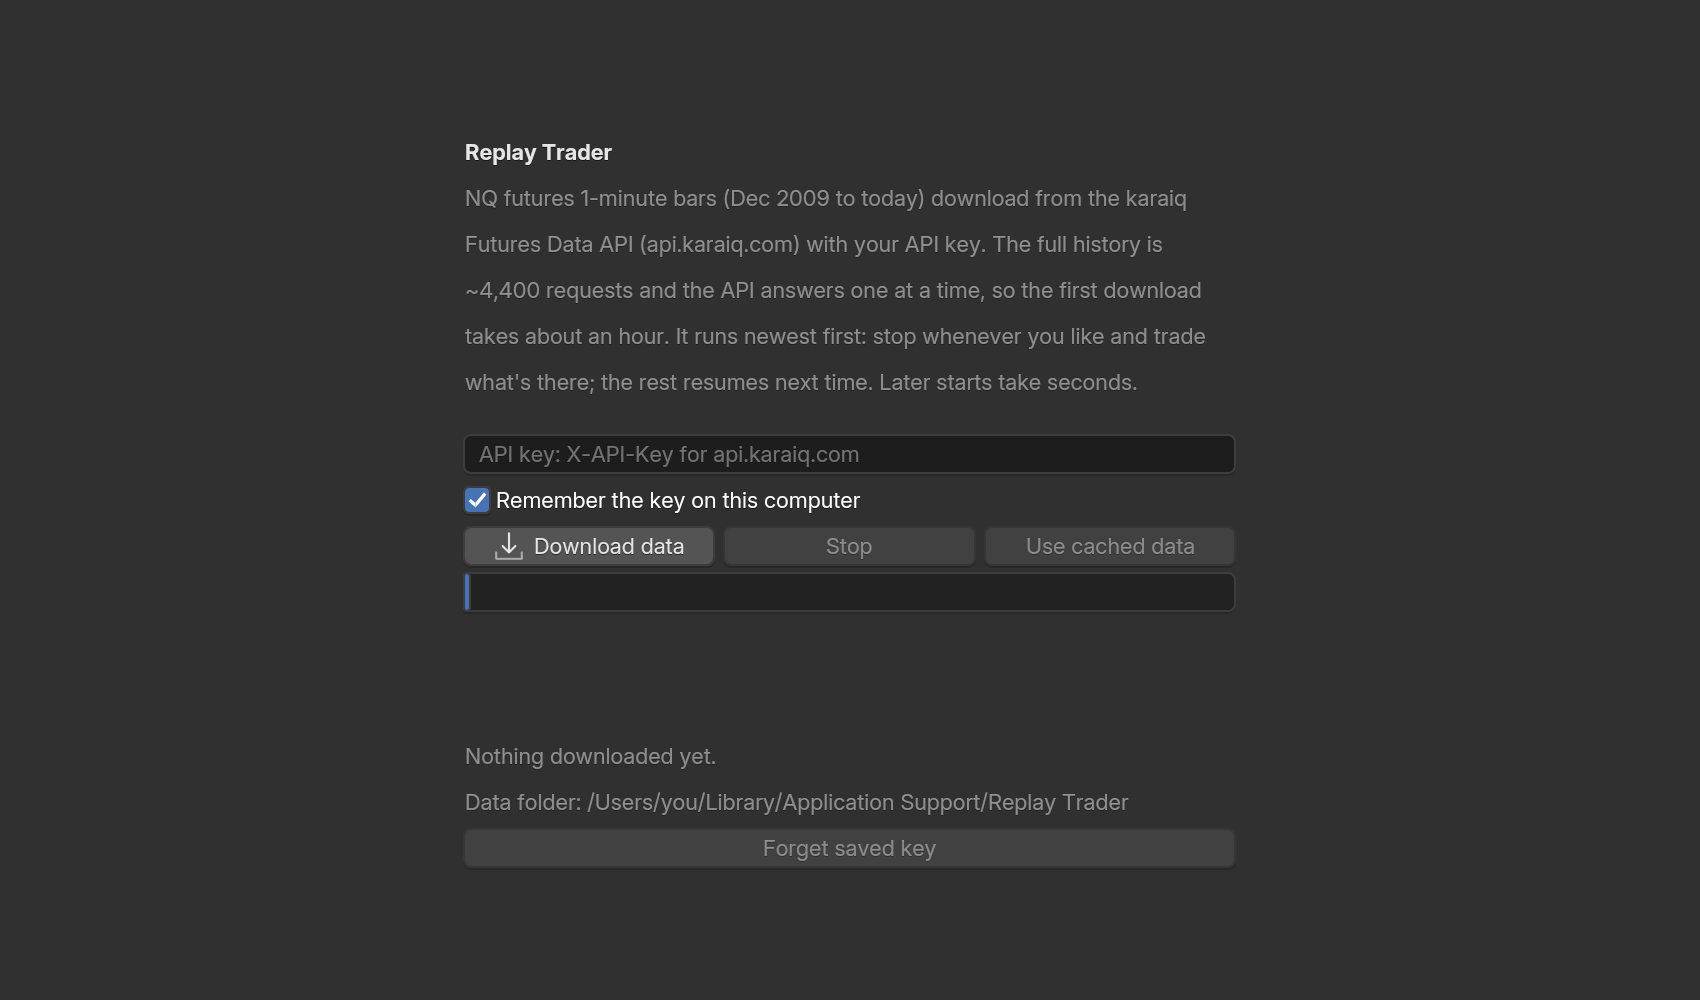
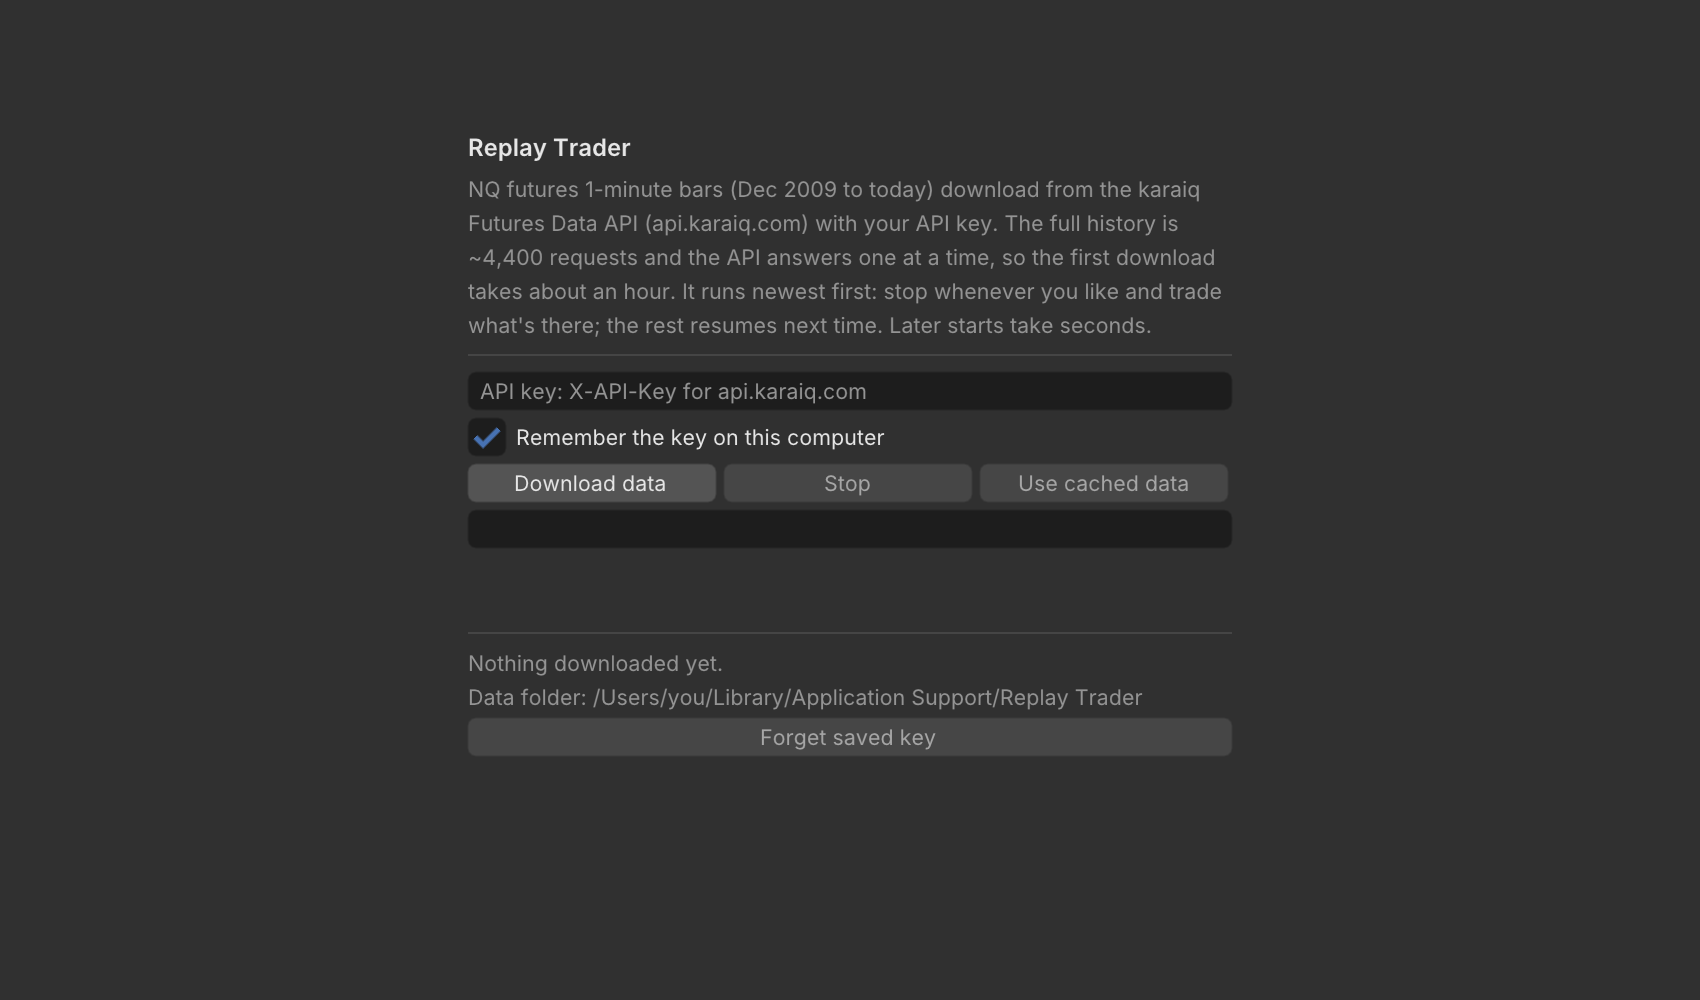
Docs for the ImGui port: building, frame loop, scrolling, frame times; new screenshots
README and READ-ME-FIRST no longer say the interface is BUI; the license text
and LICENSE are unchanged. docs/*.png re-rendered off-screen from the RT_DIST
build at 2x.

diff --git a/docs/DEVELOPMENT.md b/docs/DEVELOPMENT.md
@@ -4,40 +4,54 @@
 
 | File | What it does |
 |---|---|
-| `src/main.cpp` | Startup: options, API key, data screen or trader, window loop, headless screenshots |
+| `src/main.cpp` | Startup: options, API key, data screen or trader, fonts and theme, window loop, frame timing, headless screenshots |
 | `src/setup.cpp` | The data screen (API key, download progress, cached-data fallback) |
 | `src/datafeed.cpp` | API client, per-month cache, building the market, contract rolls |
 | `src/http.cpp` | HTTPS GET: libcurl on macOS/Linux, WinHTTP on Windows |
 | `src/market.cpp` | 1-minute bars, aggregation into chart timeframes, the partly revealed bar |
 | `src/broker.cpp` | Paper broker: orders, fills, brackets, P&L, roll shifts |
 | `src/app.cpp` | Replay state and actions shared by the panels and the chart |
-| `src/panels.cpp` | Left-hand panels (BUI widget tree) |
-| `src/chart.cpp` | Price chart, oscillator panes and equity curve (custom-drawn BUI nodes) |
+| `src/panels.cpp` | Left-hand panels, number fields, smooth scrolling |
+| `src/chart.cpp` | Price chart, oscillator panes and equity curves (ImGui draw lists), pan / zoom / order input |
+| `src/softraster.cpp` | CPU rasterizer for ImGui draw data (`--screenshot` without a window or GPU) |
+| `src/mac_metal.mm`, `src/mac_input.m` | macOS: the Metal renderer; telling trackpad scrolling from wheel clicks |
 | `src/civil.h` | Calendar arithmetic without libc time functions (they differ across platforms) |
 | `src/script.cpp` | Lua: script discovery and hot reload, definitions, params, running indicators |
 | `src/strategy.cpp` | Strategies: the `ctx` bindings, minute-by-minute driving, backtests on a worker thread, stats |
 | `scripts/lib/prelude.lua` | The Lua side of the API: `indicator`/`strategy`, `time`, `ta`, the `ctx` methods |
 | `scripts/indicators/`, `scripts/strategies/` | Built-in scripts, compiled into the binary (`cmake/embed_files.cmake`) |
 
-The UI is [BUI](https://github.com/ppmpreetham/BUI) v0.5.0, Blender's interface as a C library. On macOS it
-draws on the CPU and only redraws what changed, so an idle window uses no CPU. The chart therefore invalidates
-itself only when something it draws has changed (`chart_prepare` keeps a signature), not on every frame.
+The UI is [Dear ImGui](https://github.com/ocornut/imgui) 1.91.9b on [GLFW](https://www.glfw.org) 3.4, rebuilt
+every frame from the app state (immediate mode). It renders on the GPU: Metal on macOS (a `CAMetalLayer`, which
+presents at the display's rate, 120 Hz on ProMotion; OpenGL on macOS doesn't pace to ProMotion), OpenGL 3
+elsewhere, with an OpenGL 2 fallback for old drivers and VMs. Text is Inter 4.0 (embedded), rasterized at the
+display's pixel density.
 
-**Scrolling patch.** `packaging/bui/precise-scroll.patch` is applied to BUI at fetch time. Upstream, the macOS
-host rounds trackpad scrolling to whole wheel notches, so scroll regions jump about 40 px at a time and the chart
-zooms in steps. With the patch:
+**Frames.** The loop sleeps in `glfwWaitEventsTimeout` while nothing changes, so an idle window draws nothing. Input
+draws a few frames (ImGui settles hover and clicks over two); playback, zoom and pan easing, smooth scrolling and
+the price axis easing keep frames coming at the display's rate (`keep_animating`); the downloader and backtests
+wake the loop from their threads with `glfwPostEmptyEvent`. User scripts are checked once a second.
 
-- **Trackpad input:** precise deltas reach `BK_scroll` as fractional notches. A notch is one wheel click, or 2
-  widget units.
-- **Scroll regions:** they move by exact pixels. A move re-arranges only that region, shifts the pixels already
-  drawn, and draws just the newly exposed strip and the scrollbar. Upstream relaid out and redrew the whole
-  window, chart included, for every pixel scrolled. A sidebar scroll frame went from 8–12 ms to about 1.3 ms
-  at Retina size, and the result was checked pixel-identical to a full redraw.
-- **Custom nodes:** they get fractional `wheel_x` and `wheel_y` values.
-- **Windows:** the host already sends touchpad fractions to `BK_scroll`, so it benefits too.
+**Scrolling.** GLFW gives the scroll callback a trackpad's precise deltas (on macOS, pixels times 0.1;
+`mac_input.m` tells them from wheel clicks, which arrive as lines) and Windows touchpads' fractions of a notch.
+`ScrollEvent`s are in interface units; a wheel click is 40 units.
 
-Mouse wheels are unchanged. The chart pans 1:1 with the fingers and zooms continuously on a trackpad, and eases
-whole mouse-wheel notches.
+- **Sidebar and trade list** (`begin_smooth_child`): trackpad deltas move them 1:1 with the fingers, wheel clicks
+  glide. The position is kept as a float, so slow swipes don't get lost in ImGui's whole-unit scroll rounding.
+- **Chart:** sideways scrolling pans 1:1, vertical scrolling zooms continuously; wheel clicks ease (Shift turns a
+  wheel sideways).
+- ImGui's own scrolling (dropdown lists) gets the same deltas, scaled so it also moves 1:1.
+
+**Frame times** at Retina size (3200 x 1900 px, M-series MacBook Pro, ProMotion), from `RT_BENCH`, which feeds
+synthetic scroll input through the same path as the trackpad: building and encoding a frame takes 0.2–0.3 ms on
+average (p95 under 1 ms) for chart panning, zooming, wheel zooming and sidebar scrolling, and frames arrive every
+8.3 ms (120 Hz). The BUI version took about 7 ms to draw a chart pan or zoom frame on the CPU plus about 3 ms to
+present it (about 75 fps).
+
+| Variable | Effect |
+|---|---|
+| `RT_FRAME_LOG=1` | Log every frame's CPU time, presentation wait and interval to stderr, with a summary on exit |
+| `RT_BENCH=pan`, `zoom`, `wheel`, `scroll`, `scrollwheel` | Replay 4 s of synthetic scrolling over the chart or the sidebar in the real window, print frame-time statistics and quit |
 
 **Scripting.** Each script runs in its own environment on top of the prelude. Scripts get no file or OS access,
 and a time-limit hook stops runaway loops.
@@ -95,17 +109,28 @@ current cache produces.
 
 | Option | Effect |
 |---|---|
-| `--screenshot out.bmp` | Render off-screen and exit (`BUI_UI_SCALE=2` for Retina size). It downloads first if there's a key |
+| `--screenshot out.bmp` | Render off-screen on the CPU and exit: no window or GPU needed (`RT_UI_SCALE=2` for Retina size, `RT_SHOT_SIZE=850x500` for another size). It downloads first if there's a key |
 | `--show-setup` | With `--screenshot`, render the data screen instead |
+| `--show-strategy` | The opening range breakout trading the replay, with a 2025 backtest and the sidebar scrolled to the Strategy panel (`docs/strategy.png`) |
 | `--from YYYY-MM-DD` | Download only from that day (for testing the downloader) |
 | `--data file.bin` | Load a file in the `NQ1M0001` format instead of the cache (`tools/export_bars.py`, CI's `tools/make_test_data.py`) |
 | `--list-rolls` | Print the cached market's roll points and exit |
+
+The screenshots in `docs/` come from the `RT_DIST` build (so the chart uses Inter), off-screen at 2x:
+
+```sh
+APP="build-mac/Replay Trader.app/Contents/MacOS/Replay Trader"; D=data/nq_1m.bin
+RT_UI_SCALE=2 "$APP" --data $D --start "2025-04-09 09:25" --demo --screenshot trader.bmp
+RT_UI_SCALE=2 "$APP" --data $D --start "2025-06-05 09:25" --show-strategy --screenshot strategy.bmp
+HOME=/Users/you RT_SHOT_SIZE=850x500 RT_UI_SCALE=2 "$APP" --show-setup --screenshot data-screen.bmp
+sips -s format png trader.bmp --out docs/trader.png   # and so on
+```
 
 ## Releases
 
 `.github/workflows/release.yml` runs on version tags (`v*`) and on manual dispatch:
 
-- **macOS** (macos-14): universal `.app`, ad-hoc signed.
+- **macOS** (macos-15): universal `.app`, ad-hoc signed.
 - **Windows** (MSYS2 MinGW-w64): a static `.exe`.
 
 Each build is smoke-tested by rendering a screenshot from synthetic data. The Windows job also checks that a bad
@@ -118,4 +143,4 @@ described in the README.
 
 The local developer build loads a chart font from `../strategy_report/pdf_src/fonts/` if it exists. That font
 isn't redistributable, so it is never in an `RT_DIST` build. Users can drop any `chart_font.ttf` into the data
-folder; otherwise the chart uses the UI font.
+folder; otherwise the chart uses the UI font (Inter).

diff --git a/README.md b/README.md
@@ -89,8 +89,8 @@ fill against the next revealed minute:
 
 When a bracket's stop and target are both hit inside one minute, it counts as stopped out.
 
-Times are New York time. Fields work like Blender's: drag a number to scrub it, or click and type an expression
-such as `20*1.5`.
+Times are New York time. Number fields work like Blender's: drag one to scrub it, or click it and type a value or
+an expression such as `20*1.5` (Enter applies, Esc cancels).
 
 **Command line (optional).** Options are `--api-key KEY` (or set `NQ_API_KEY`), `--offline` to use the
 downloaded data without connecting, `--start "2025-04-09 09:25"` and `--demo`.
@@ -130,8 +130,9 @@ few gaps, which the backtest log points out.
 ## Building from source
 
 You need CMake 3.20 or later and a C++17 compiler: Xcode command line tools on macOS, or MSVC or MinGW-w64 on
-Windows. The UI library, [BUI](https://github.com/ppmpreetham/BUI), and Lua 5.4 are downloaded and built
-automatically.
+Windows. [Dear ImGui](https://github.com/ocornut/imgui), [GLFW](https://www.glfw.org), Lua 5.4 and the
+[Inter](https://rsms.me/inter/) font are downloaded and built automatically. The interface draws on the GPU: Metal
+on macOS, OpenGL on Windows.
 
 ```sh
 cmake -S . -B build && cmake --build build -j
@@ -145,7 +146,7 @@ one. Pushing a tag such as `v1.0.0` builds both on GitHub Actions and attaches t
 
 ## License
 
-GPL-3.0-or-later (see [LICENSE](LICENSE)). The interface is built with BUI, a C library of Blender's widgets,
-which is GPL-3.0.
+GPL-3.0-or-later (see [LICENSE](LICENSE)). It uses Dear ImGui (MIT), GLFW (zlib), Lua (MIT) and the Inter font
+(SIL Open Font License 1.1).
 
 This is a practice tool, not investment advice. Past market data says nothing reliable about future results.
